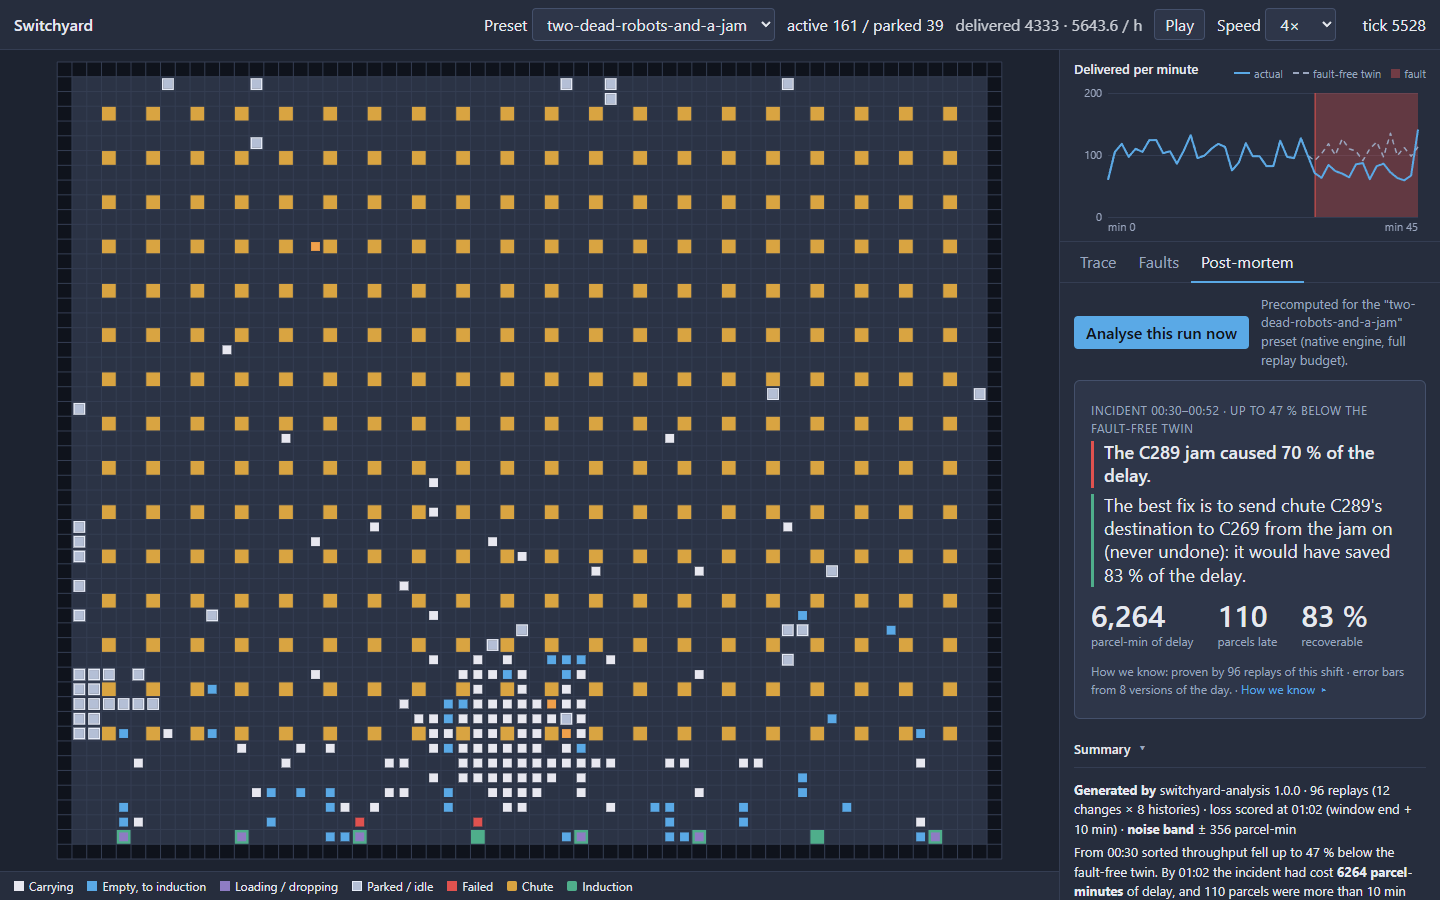
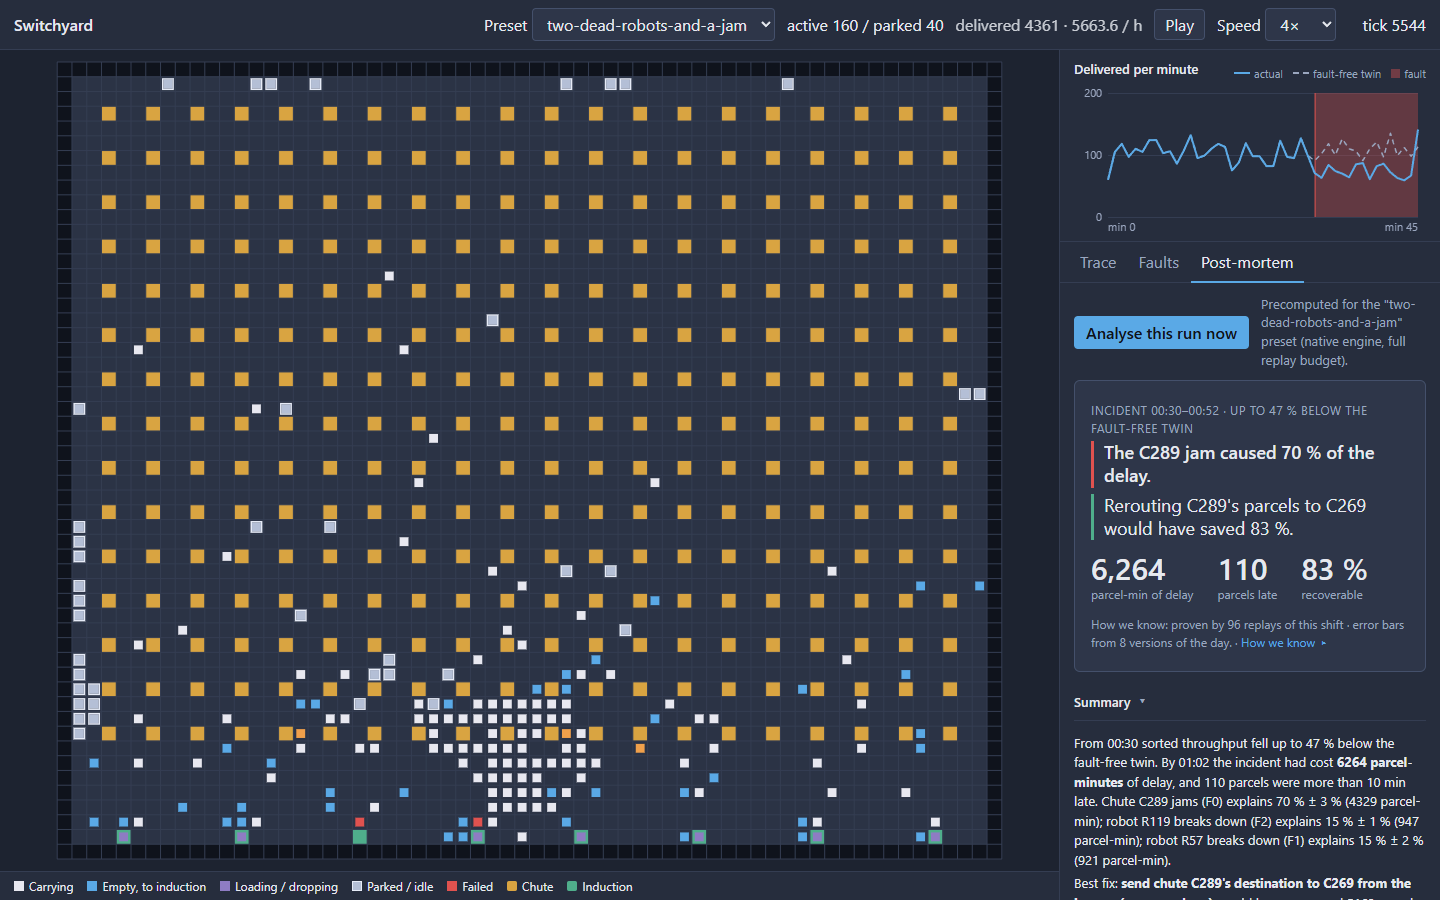
headline: plain fix phrase; move the generated-by line into Method
The fix sentence now reads "Rerouting C289's parcels to C269 would have
saved 83 %." (a phrase per intervention kind; the full label stays in the
Fixes table). Summary starts with the plain sentence; the noise-band
provenance line moved to Method. Reports and screenshot regenerated.

Refs #24

diff --git a/crates/analysis/src/postmortem/headline.rs b/crates/analysis/src/postmortem/headline.rs
@@ -54,6 +54,9 @@ pub struct CauseHeadline {
 pub struct FixHeadline {
     /// The fix's label, verbatim.
     pub label: String,
+    /// The fix as a short plain phrase that starts a sentence, e.g.
+    /// "Rerouting C289's parcels to C269".
+    pub phrase: String,
     /// Recovered delay, whole parcel-minutes.
     pub recovered_parcel_min: i64,
     /// Share of the median loss recovered, in %.
@@ -82,6 +85,37 @@ fn parcel_minutes(parcel_ticks: i64) -> i64 {
 }
 
 impl PostMortem {
+    /// Fix `i` as a short plain phrase ("Rerouting C289's parcels to C269").
+    fn fix_phrase(&self, i: usize) -> String {
+        use switchyard_core::interventions::Intervention;
+        let fix = &self.fixes[i];
+        match fix.interventions.as_slice() {
+            [Intervention::RemapDestination { chute: to, .. }, ..] => {
+                let from = self.candidates.iter().find_map(|c| match c.spec.kind {
+                    FaultKind::ChuteJam { chute } if c.spec.at == fix.at => Some(chute),
+                    _ => None,
+                });
+                from.map_or_else(
+                    || format!("Rerouting the jammed chute's parcels to {to}"),
+                    |f| format!("Rerouting {f}'s parcels to {to}"),
+                )
+            }
+            [Intervention::ClearAfter { ticks }] => {
+                format!(
+                    "Clearing dead robots within {}",
+                    super::candidates::minutes(*ticks)
+                )
+            }
+            [Intervention::SetStationCap { cap, .. }] => {
+                format!("Allowing {cap} robots per station")
+            }
+            [Intervention::AddRobots { robots, .. }] => {
+                format!("Adding {robots} spare robots")
+            }
+            _ => "Applying the best fix".to_owned(),
+        }
+    }
+
     /// The one-glance summary; `None` when no incident was detected.
     #[must_use]
     #[allow(clippy::cast_precision_loss)]
@@ -139,6 +173,7 @@ impl PostMortem {
             .find(|&(_, g, _)| g > 0)
             .map(|(i, g, b)| FixHeadline {
                 label: self.fixes[i].label.clone(),
+                phrase: self.fix_phrase(i),
                 recovered_parcel_min: parcel_minutes(g),
                 recovery_pct: 100.0 * g as f64 / loss.max(1) as f64,
                 within_noise: !significant(g as f64, b),
@@ -196,7 +231,7 @@ impl Headline {
         let fix = self.fix.as_ref().filter(|f| !f.within_noise);
         let mut sentences = cause;
         if let Some(f) = fix {
-            sentences.push_str(&format!("\n{}", fix_sentence(&f.label, f.recovery_pct)));
+            sentences.push_str(&format!("\n{}", fix_sentence(&f.phrase, f.recovery_pct)));
         }
         let mut stats = vec![
             format!(
@@ -229,9 +264,9 @@ impl Headline {
     }
 }
 
-/// "The best fix is to send ...: it would have saved 83 % of the delay."
-fn fix_sentence(label: &str, pct: f64) -> String {
-    format!("The best fix is to {label}: it would have saved {pct:.0} % of the delay.")
+/// "Rerouting C289's parcels to C269 would have saved 83 %."
+fn fix_sentence(phrase: &str, pct: f64) -> String {
+    format!("{phrase} would have saved {pct:.0} %.")
 }
 
 #[cfg(test)]
@@ -376,6 +411,7 @@ mod tests {
             late_parcels: 110,
             fix: Some(FixHeadline {
                 label: "send chute C289's destination to C269".to_owned(),
+                phrase: "Rerouting C289's parcels to C269".to_owned(),
                 recovered_parcel_min: 5162,
                 recovery_pct: 83.39,
                 within_noise: false,
@@ -391,7 +427,7 @@ mod tests {
             sample().markdown(),
             "**Incident 00:30\u{2013}00:52 \u{b7} up to 47 % below the fault-free twin**\n\n\
              The C289 jam caused 70 % of the delay.\n\
-             The best fix is to send chute C289's destination to C269: it would have saved 83 % of the delay.\n\n\
+             Rerouting C289's parcels to C269 would have saved 83 %.\n\n\
              **6,264** parcel-min of delay \u{b7} **110** parcels late \u{b7} **83 %** recoverable\n\n\
              *How we know: proven by 96 replays of this shift \u{b7} error bars from 8 versions of the day.*"
         );
@@ -417,7 +453,7 @@ mod tests {
         h.fix.as_mut().unwrap().within_noise = true;
         let md = h.markdown();
         assert!(
-            !md.contains("best fix") && !md.contains("recoverable"),
+            !md.contains("would have saved") && !md.contains("recoverable"),
             "{md}"
         );
         // The card still has its three paragraphs after the eyebrow.

diff --git a/crates/analysis/src/postmortem/report.rs b/crates/analysis/src/postmortem/report.rs
@@ -153,10 +153,10 @@ pub fn render(pm_: &PostMortem) -> String {
     // range, not just the single-removal replay R(1<<i) (#16).
     let lattice = format!("R0–R{all}");
     let n_replays = pm_.replays.len() * histories;
-    let _ = writeln!(
-        o,
+    // Provenance for the Method section; the top of the report stays plain.
+    let generated = format!(
         "**Generated by** switchyard-analysis {} · {n_replays} replays ({} changes × {histories} \
-         {}) · loss scored at {} ({}) · **noise band** ± {} parcel-min\n",
+         {}) · loss scored at {} ({}) · **noise band** ± {} parcel-min",
         crate::VERSION,
         pm_.replays.len(),
         plural(histories, "history", "histories"),
@@ -780,6 +780,7 @@ pub fn render(pm_: &PostMortem) -> String {
         "how the numbers were made and how far to trust them",
     );
     let _ = writeln!(o, "## Method and confidence\n");
+    let _ = writeln!(o, "- {generated}");
     let robots: Vec<String> = pm_.dither.iter().map(ToString::to_string).collect();
     let _ = writeln!(
         o,
@@ -1208,9 +1209,14 @@ mod tests {
         let pm = small_incident();
         let md = render(&pm);
         let head = md.find("**Incident ").expect("headline eyebrow");
-        let generated = md.find("**Generated by**").unwrap();
+        let summary_at = md.find("## Summary").unwrap();
         let first_fold = md.find("<details>").unwrap();
-        assert!(head < generated && generated < first_fold, "{md}");
+        assert!(head < summary_at && summary_at < first_fold, "{md}");
+        let generated = md.find("**Generated by**").unwrap();
+        assert!(
+            generated > md.find("## Method and confidence").unwrap(),
+            "{md}"
+        );
         assert_eq!(
             md.matches("<details>").count(),
             md.matches("</details>").count()

diff --git a/viewer/public/reports/two-dead-robots-and-a-jam.md b/viewer/public/reports/two-dead-robots-and-a-jam.md
@@ -3,13 +3,11 @@
 **Incident 00:30–00:52 · up to 47 % below the fault-free twin**
 
 The C289 jam caused 70 % of the delay.
-The best fix is to send chute C289's destination to C269 from the jam on (never undone): it would have saved 83 % of the delay.
+Rerouting C289's parcels to C269 would have saved 83 %.
 
 **6,264** parcel-min of delay · **110** parcels late · **83 %** recoverable
 
 *How we know: proven by 96 replays of this shift · error bars from 8 versions of the day.*
-
-**Generated by** switchyard-analysis 1.0.0 · 96 replays (12 changes × 8 histories) · loss scored at 01:02 (window end + 10 min) · **noise band** ± 356 parcel-min
 
 ## Summary
 
@@ -166,6 +164,7 @@ How we know: fault times come from the scenario; the alarm and window come from 
 
 ## Method and confidence
 
+- **Generated by** switchyard-analysis 1.0.0 · 96 replays (12 changes × 8 histories) · loss scored at 01:02 (window end + 10 min) · **noise band** ± 356 parcel-min
 - **Counterfactual replay.** The shift was re-run with each combination of causes removed, resuming from the last 5 min checkpoint before the earliest removed cause, and scored at 01:02 as net parcel-minutes of delay against the fault-free twin (same seed, same parcels). Shapley values are exact over all subsets, in integer arithmetic, so the shares add up exactly to the recovered loss.
 - **Noise.** Robot paths diverge after any small change, so every replay ran on 8 histories: the real one, and 7 copies (of 15 tried) in which one moving robot (R79, R120, R142, R172, R6, R25, R34) paused for a single tick at 00:30 and the shift diverged. The headline delay and late count are the real history's; every other value is the median across histories; ± is half their range. *Alone*, *Last* and each fix's gain are the median over the histories of each history's own difference. Two values that differ by less than twice that band are reported as a tie.
 - **Detection** uses the twin's Poisson noise as the scale. h = 3 is 3.0 times the largest CUSUM value (1.0) seen in 160 simulated hours of fault-free runs whose robot paths were perturbed.

diff --git a/viewer/public/reports/peak-surge.md b/viewer/public/reports/peak-surge.md
@@ -3,13 +3,11 @@
 **Incident 00:30–01:00 · up to 34 % below the fault-free twin**
 
 The volume surge caused 100 % of the delay.
-The best fix is to allow 8 robots inbound per station (now 6): it would have saved 83 % of the delay.
+Allowing 8 robots per station would have saved 83 %.
 
 **7,734** parcel-min of delay · **0** parcels late · **83 %** recoverable
 
 *How we know: proven by 40 replays of this shift · error bars from 8 versions of the day.*
-
-**Generated by** switchyard-analysis 1.0.0 · 40 replays (5 changes × 8 histories) · loss scored at 01:10 (window end + 10 min) · **noise band** ± 303 parcel-min
 
 ## Summary
 
@@ -151,6 +149,7 @@ How we know: fault times come from the scenario; the alarm and window come from 
 
 ## Method and confidence
 
+- **Generated by** switchyard-analysis 1.0.0 · 40 replays (5 changes × 8 histories) · loss scored at 01:10 (window end + 10 min) · **noise band** ± 303 parcel-min
 - **Counterfactual replay.** The shift was re-run with each combination of causes removed, resuming from the last 5 min checkpoint before the earliest removed cause, and scored at 01:10 as net parcel-minutes of delay against the fault-free twin (same seed, same parcels). Shapley values are exact over all subsets, in integer arithmetic, so the shares add up exactly to the recovered loss.
 - **Noise.** Robot paths diverge after any small change, so every replay ran on 8 histories: the real one, and 7 copies (of 9 tried) in which one moving robot (R14, R100, R120, R142, R172, R6, R10) paused for a single tick at 00:30 and the shift diverged. The headline delay and late count are the real history's; every other value is the median across histories; ± is half their range. *Alone*, *Last* and each fix's gain are the median over the histories of each history's own difference. Two values that differ by less than twice that band are reported as a tie.
 - **Detection** uses the twin's Poisson noise as the scale. h = 3 is 3.0 times the largest CUSUM value (1.0) seen in 160 simulated hours of fault-free runs whose robot paths were perturbed.

diff --git a/viewer/public/reports/aisle-7-blocked.md b/viewer/public/reports/aisle-7-blocked.md
@@ -8,8 +8,6 @@ The aisle blockage caused 100 % of the delay.
 
 *How we know: proven by 40 replays of this shift · error bars from 8 versions of the day.*
 
-**Generated by** switchyard-analysis 1.0.0 · 40 replays (5 changes × 8 histories) · loss scored at 01:01 (window end + 10 min) · **noise band** ± 576 parcel-min
-
 ## Summary
 
 From 00:30 sorted throughput fell up to 30 % below the fault-free twin. By 01:01 the incident had cost **2428 parcel-minutes** of delay, and 0 parcels were more than 10 min late.
@@ -147,6 +145,7 @@ How we know: fault times come from the scenario; the alarm and window come from 
 
 ## Method and confidence
 
+- **Generated by** switchyard-analysis 1.0.0 · 40 replays (5 changes × 8 histories) · loss scored at 01:01 (window end + 10 min) · **noise band** ± 576 parcel-min
 - **Counterfactual replay.** The shift was re-run with each combination of causes removed, resuming from the last 5 min checkpoint before the earliest removed cause, and scored at 01:01 as net parcel-minutes of delay against the fault-free twin (same seed, same parcels). Shapley values are exact over all subsets, in integer arithmetic, so the shares add up exactly to the recovered loss.
 - **Noise.** Robot paths diverge after any small change, so every replay ran on 8 histories: the real one, and 7 copies (of 12 tried) in which one moving robot (R100, R120, R172, R6, R11, R13, R25) paused for a single tick at 00:30 and the shift diverged. The headline delay and late count are the real history's; every other value is the median across histories; ± is half their range. *Alone*, *Last* and each fix's gain are the median over the histories of each history's own difference. Two values that differ by less than twice that band are reported as a tie.
 - **Detection** uses the twin's Poisson noise as the scale. h = 3 is 3.0 times the largest CUSUM value (1.0) seen in 160 simulated hours of fault-free runs whose robot paths were perturbed.
